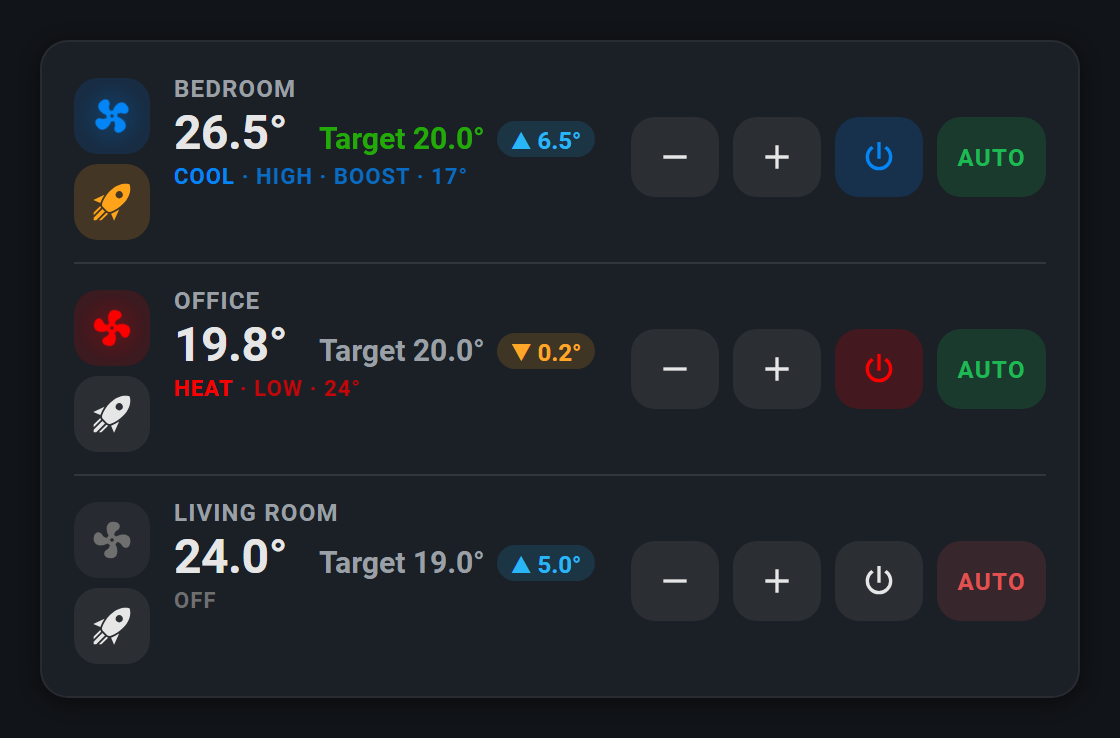
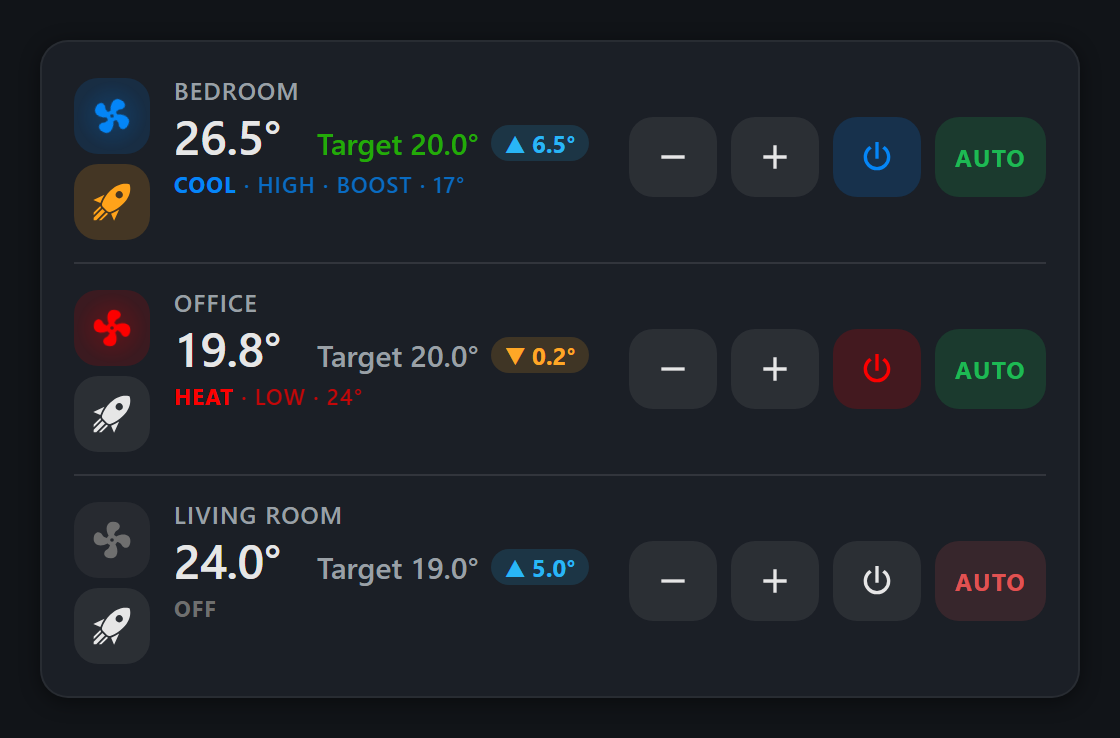
Document troubleshooting, refresh screenshots, release 2.1.1
Adds a Troubleshooting section covering the problems that actually come up:
resource caching after an update, "custom element doesn't exist", missing or
unavailable entities, a stationary fan, a missing boost button, boost timing
out on the unit itself, a greyed-out AUTO, and compact tiles stacking instead
of sitting side by side.

Compact mode is now listed in the feature list and in the HACS panel
description, which both still described only the full card.

Every screenshot is regenerated from the current build at 2x, so the images
match what the card renders today. All fixtures use demo entity ids and
generic room names.

No behaviour changes.

diff --git a/ac-control-card.js b/ac-control-card.js
@@ -28,7 +28,7 @@
  */
 
 const CARD_TYPE = "ac-control-card";
-const CARD_VERSION = "2.1.0";
+const CARD_VERSION = "2.1.1";
 
 /* ------------------------------------------------------------------ config */
 

diff --git a/README.md b/README.md
@@ -42,6 +42,9 @@ On a phone, two per row:
   deliberately kept out of the main control row so those four buttons fit one line
   even on a phone. Units without a `boost` preset don't show it at all.
 - **Four controls per room** on the right — minus, plus, power and AUTO.
+- **Compact dashboard mode** — `layout: compact` shrinks the card to a small tile
+  showing just the fan, the room temperature, the room name and the target. Tap it
+  to open that unit's full Home Assistant controls. Sized so several sit in a row.
 - **Per-room isolation.** Every room's status, colours and button states come only
   from that room's own entities, so an unavailable unit never affects its neighbours.
 - **Careful state handling.** Unavailable rooms are muted, controls that cannot act
@@ -218,6 +221,50 @@ Colours come from your theme where possible, and can be overridden per-card with
 | `--acc-compact-current` | `#ffb74d` | Room temperature on the compact tile |
 | `--acc-compact-target` | `#ffa726` | Target temperature on the compact tile |
 | `--acc-compact-radius` | `22px` | Corner radius of the compact tile |
+
+## Troubleshooting
+
+**The card looks unchanged after updating.** Browsers cache Lovelace resources for
+weeks. Reload with `Ctrl+Shift+R`, or reset the frontend cache from the companion
+app. If it still looks stale, add a version marker to the resource URL under
+**Settings → Dashboards → ⋮ → Resources** — `…/ac-control-card.js?v=2` — since a
+changed URL is the only thing a browser is guaranteed to re-fetch.
+
+**"Custom element doesn't exist: ac-control-card".** The resource is not loading.
+Check that it is registered as a **JavaScript module** (not a stylesheet), and that
+the URL resolves in a browser tab.
+
+**"Not configured yet" on the card.** One of the three required options is missing.
+Every room needs `climate_entity`, `room_temp_entity` and `target_temp_entity`.
+
+**"Entity not found".** The card is configured with an entity id Home Assistant does
+not know about — usually a typo, or an entity that has been renamed or removed.
+
+**The temperature shows `—`.** The sensor is unavailable or is not reporting a
+number. The card never invents a placeholder value.
+
+**The fan does not spin.** It only turns while air is actually moving. A unit that is
+off, idle, unavailable, or powered but coasting shows a stationary fan. If your
+integration reports `hvac_action`, that is used; otherwise any mode other than `off`
+counts as moving air. The fan also stops for anyone who has "reduce motion" enabled
+in their operating system.
+
+**No boost button.** It only appears on units whose `preset_modes` include `boost`.
+Check the climate entity's attributes in **Developer Tools → States**. It can also
+be switched off for the whole card with `show_boost: false`.
+
+**Boost turns itself off after about half an hour.** That is the air conditioner,
+not the card. Turbo/boost is a time-limited burst on most units and the hardware
+exits it on its own.
+
+**AUTO is greyed out.** The automation entity does not exist. By default the card
+looks for `automation.<climate object id>_command`; set `automation_cool_entity` and
+`automation_heat_entity` explicitly if yours are named differently.
+
+**Compact tiles stack instead of sitting side by side.** Use one compact card *per
+room* — a card occupies a single slot in a sections grid, so a card holding several
+rooms stacks them inside that one slot. Also check each tile's width: a section is
+12 columns, so two tiles need 6 columns each to fill a row, four need 3 each.
 
 ## Notes
 

diff --git a/CHANGELOG.md b/CHANGELOG.md
@@ -1,6 +1,21 @@
 # Changelog
 
-## 2.1.0
+## 2.1.1
+
+Documentation and packaging only — the card behaves exactly as it did in 2.1.0.
+
+### Added
+
+- A **Troubleshooting** section in the README covering caching after an update, the
+  "custom element doesn't exist" error, missing entities, a stationary fan, a
+  missing boost button, boost timing out on the unit itself, a greyed-out AUTO, and
+  compact tiles stacking instead of sitting side by side.
+- Compact mode in the feature list and in the HACS panel description.
+- `ac-control-card.js` is attached to the GitHub release as a downloadable asset.
+
+### Changed
+
+- Every screenshot regenerated from the current build at 2× for sharper rendering.
 
 ### Added
 

diff --git a/info.md b/info.md
@@ -11,9 +11,13 @@ and four touch-sized controls.
 - `▲ 6.5°` / `▼ 0.2°` difference badge, never `NaN` or `unknown`
 - Fan tinted by HVAC mode; spins only while air is moving
 - Boost, power, AUTO and ± target controls, per room
+- **Compact mode** — `layout: compact` for a small dashboard tile, tap to open the
+  full controls
 - Unavailable rooms are muted and their unsafe controls disabled
 - GUI editor — no hand-written YAML needed
 - One file, no build step, no external dependencies
+
+![Compact layout](https://raw.githubusercontent.com/ilirdokle43/HA-AC-Control/master/docs/compact.png)
 
 ```yaml
 type: custom:ac-control-card
